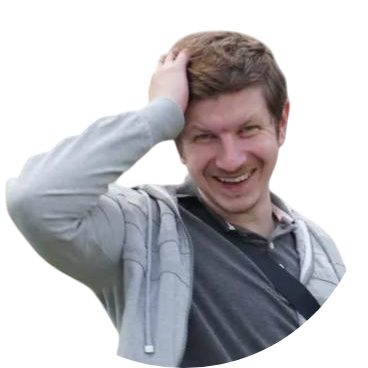
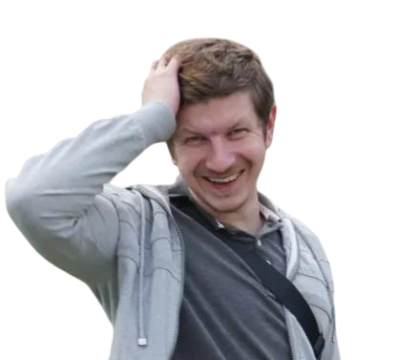
feat: change card

diff --git a/src/styles/pages/about.ts b/src/styles/pages/about.ts
@@ -8,18 +8,19 @@ export const ABOUT_STYLE = {
     'bg-size-[80%]',
   ],
   TITLE: ['text-3xl', 'font-semibold', 'text-center', 'text-purple', 'my-6'],
-  CONTAINER: ['w-full', 'max-w-screen-xl', 'flex', 'gap-8', 'mx-auto', 'py-10'],
+  CONTAINER: ['w-full', 'flex', 'justify-between', 'gap-8', 'my-10', 'mx-4'],
   IMAGE_CONTAINER: [
     'relative',
     'place-self-center',
     'lg:place-self-start',
     'top-4',
-    'lg:w-[400px]',
-    'lg:h-[400px]',
+    'lg:h-[300px]',
+    'lg:max-h-[25%]',
   ],
   PERSONAL_CONTAINER: [
     'flex',
     'flex-col',
+    'flex-1',
     'bg-white',
     'border-2',
     'border-solid',
@@ -30,7 +31,7 @@ export const ABOUT_STYLE = {
     'outline-offset-8',
   ],
   ODD_CONTAINER: ['flex', 'flex-col'],
-  PHOTO: ['w-[390px]'],
+  PHOTO: ['w-[250px]'],
   OLGA_HAT: ['relative', 'hidden', 'lg:block', '-top-116', 'left-30', 'rotate-15', 'w-[225px]'],
   KONSTANTIN_HAT: [
     'relative',
